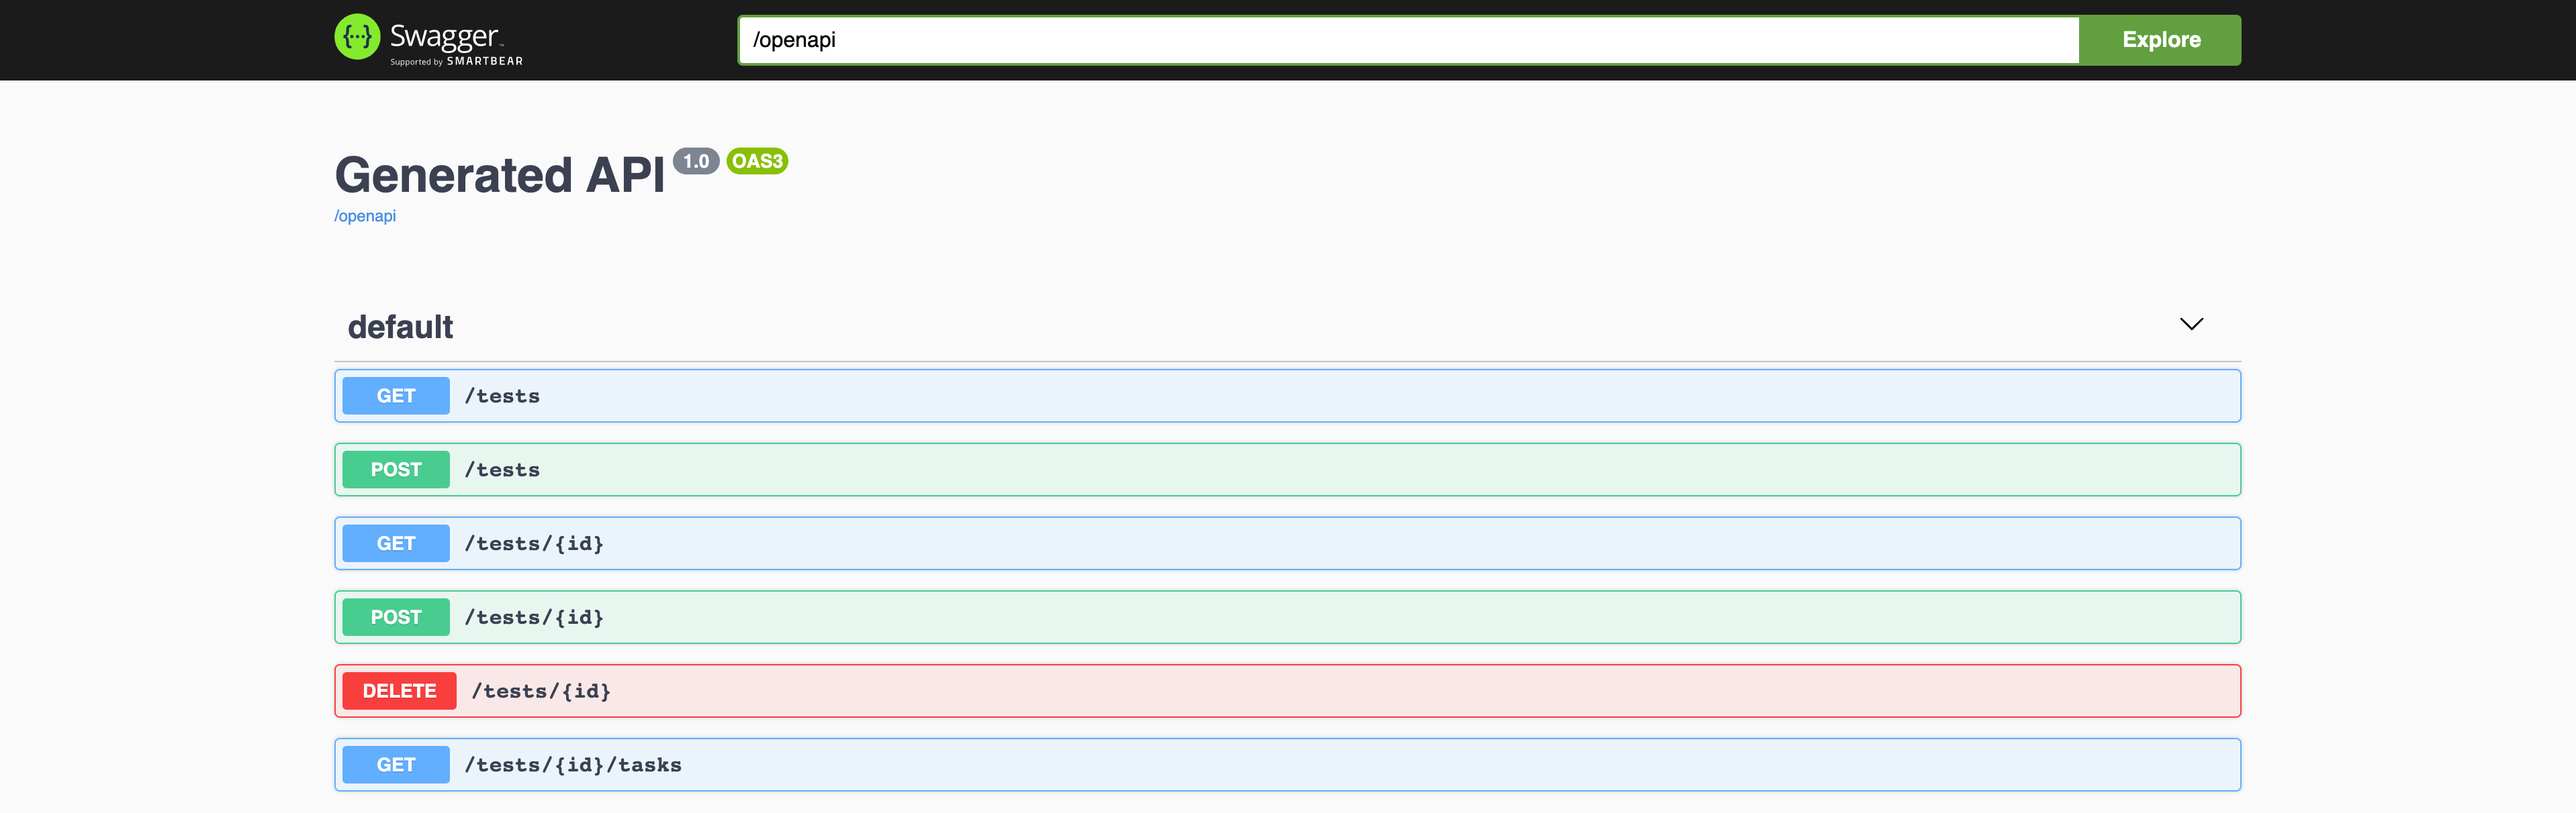
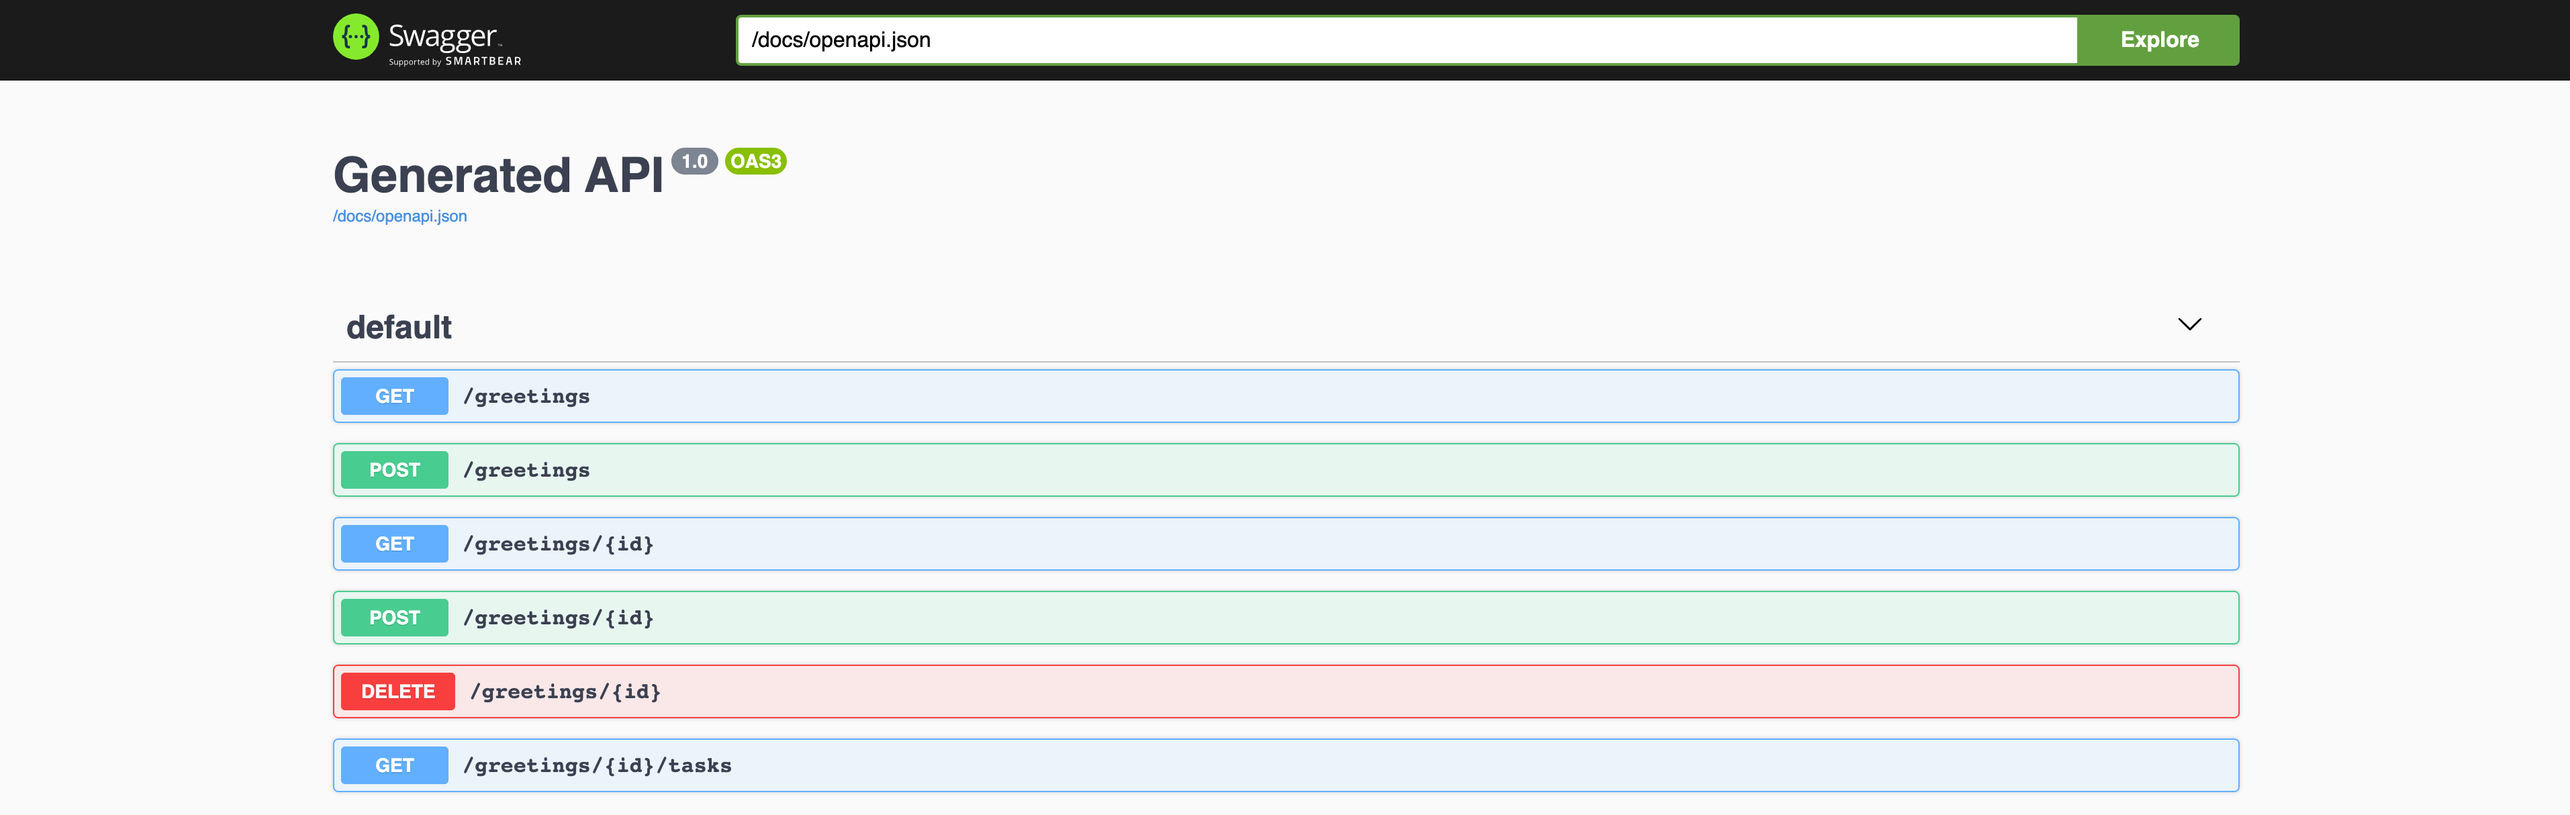
Fixes after walkthrough of the scenario.

diff --git a/middleware/middleware-kogito/getting-started/04-build-native.md b/middleware/middleware-kogito/getting-started/04-build-native.md
@@ -23,16 +23,13 @@ Within the `getting-started/pom.xml`{{open}} is the declaration for the Quarkus 
             <goals>
               <goal>native-image</goal>
             </goals>
-            <configuration>
-              <additionalBuildArgs>--allow-incomplete-classpath</additionalBuildArgs>
-            </configuration>
           </execution>
         </executions>
       </plugin>
       <plugin>
         <groupId>org.apache.maven.plugins</groupId>
         <artifactId>maven-failsafe-plugin</artifactId>
-        <version>2.22.1</version>
+        <version>${surefire.version}</version>
       </plugin>
     </plugins>
   </build>
@@ -40,7 +37,7 @@ Within the `getting-started/pom.xml`{{open}} is the declaration for the Quarkus 
 ```
 We use a profile because, you will see very soon, packaging the native image takes a few seconds. However, this compilation time is only incurred _once_, as opposed to _every_ time the application starts, which is the case with other approaches for building and executing JARs.
 
-In the original terminal, if the application is still running, stop it with `Ctrl+C`. Next, a native executable by clicking: `mvn clean package -Pnative -DskipTests=true`{{execute}}
+In the original terminal, if the application is still running, stop it with `Ctrl+C`. Next, create a native executable by clicking: `mvn clean package -Pnative -DskipTests=true`{{execute}}
 
 > Since we are working in a Linux environment, and the OS that will eventually run our application is also Linux, we can use our local OS to build the native Quarkus app. If you need to build native Linux binaries when on other OS's like Windows or macOS, you can use `-Dquarkus.native.container-runtime=[podman | docker]`. You'll need either Docker or [Podman](https://podman.io) installed depending on which container runtime you want to use!
 
@@ -52,7 +49,7 @@ In addition to the regular files, the build also produces `target/getting-starte
 
 ```console
 $ file target/getting-started-1.0-SNAPSHOT-runner
-target/getting-started-1.0-SNAPSHOT-runner: ELF 64-bit LSB executable, x86-64, version 1 (SYSV), dynamically linked (uses shared libs), for GNU/Linux 2.6.32, BuildID[sha1]=e922a54ad13711d63023ff99b370cc419a3eba96, not stripped
+target/getting-started-1.0-SNAPSHOT-runner: ELF 64-bit LSB executable, x86-64, version 1 (SYSV), dynamically linked, interpreter /lib64/ld-linux-x86-64.so.2, for GNU/Linux 3.2.0, BuildID[sha1]=d8c36b6f114e5b2fce77b4efe07d1e4ac4879ab6, with debug_info, not stripped, too many notes (256)
 ```
 
 ## Run native image
@@ -64,11 +61,15 @@ Since our environment here is Linux, you can _just run it_:
 Notice the amazingly fast startup time:
 
 ```console
-2020-03-23 12:54:58,692 INFO  [io.quarkus] (main) getting-started 1.0-SNAPSHOT (powered by Quarkus 1.3.0.Final) started in 0.007s. Listening on: http://0.0.0.0:8080
-2020-03-23 12:54:58,692 INFO  [io.quarkus] (main) Profile prod activated.
-2020-03-23 12:54:58,692 INFO  [io.quarkus] (main) Installed features: [cdi, kogito, resteasy, resteasy-jackson, smallrye-openapi]
+__  ____  __  _____   ___  __ ____  ______
+ --/ __ \/ / / / _ | / _ \/ //_/ / / / __/
+ -/ /_/ / /_/ / __ |/ , _/ ,< / /_/ /\ \
+--\___\_\____/_/ |_/_/|_/_/|_|\____/___/
+2020-04-15 13:48:19,193 INFO  [io.quarkus] (main) getting-started 1.0-SNAPSHOT (powered by Quarkus 1.3.0.Final) started in 0.021s. Listening on: http://0.0.0.0:8080
+2020-04-15 13:48:19,193 INFO  [io.quarkus] (main) Profile prod activated.
+2020-04-15 13:48:19,193 INFO  [io.quarkus] (main) Installed features: [cdi, kogito, resteasy, resteasy-jackson, smallrye-openapi, swagger-ui]
 ```
-That's 7 milliseconds (seven!!!) to start a full business application, exposing a REST API and ready to serve requests in a shared learning environment!
+That's 21 milliseconds (twenty one!!!) to start a full business application, exposing a REST API and ready to serve requests in a shared learning environment!
 
 And extremely low memory usage as reported by the Linux `ps` utility. Click here to run this in your other Terminal tab:
 

diff --git a/middleware/middleware-kogito/getting-started/02-implement-process.md b/middleware/middleware-kogito/getting-started/02-implement-process.md
@@ -161,16 +161,9 @@ Alternatively, you can copy the following BPMN2 definition to the BPMN file:
 
 Since we still have our app running using `mvn quarkus:dev`, when you make these changes and reload the endpoint, Quarkus will notice all of these changes and live-reload them, including changes in your business assets (i.e. processes, decision, rules, etc.).
 
-Check that it works as expected by opening the Swagger-UI endpoint by [clicking here](https://[[CLIENT_SUBDOMAIN]]-8080-[[KATACODA_HOST]].environments.katacoda.com/swagger-ui). The Swagger-UI will show the REST resources that have been generated from the project's _business assets_, in this case the `getting_started` resource, which is backed by our process definition.
+Check that it works as expected by opening the Swagger-UI endpoint by [clicking here](https://[[CLIENT_SUBDOMAIN]]-8080-[[KATACODA_HOST]].environments.katacoda.com/swagger-ui). The Swagger-UI will show the REST resources that have been generated from the project's _business assets_, in this case the `getting_started` resource, which is backed by our process definition (note that the sample _Greetings_ resource is also still shown in the Swagger UI).
 
-In the Swagger UI, expand the **POST /getting_started** resource. Click on the **Try it out** button on the right-hand-side of the screen. Remove the
-
-```console
-{
-  "id": "string"
-}
-```
-from the *Request body*, and click on the blue **Execute** button. The response will be the instance-id/process-id of the created **getting_started** resource.
+In the Swagger UI, expand the **POST /getting_started** resource. Click on the **Try it out** button on the right-hand-side of the screen. Click on the blue **Execute** button to fire the request. The response will be the instance-id/process-id of the created **getting_started** resource.
 
 ![Swagger](/openshift/assets/middleware/middleware-kogito/kogito-getting-started-swagger.png)
 

diff --git a/middleware/middleware-kogito/getting-started/01-create-project.md b/middleware/middleware-kogito/getting-started/01-create-project.md
@@ -83,7 +83,7 @@ Because this is the first Maven Kogito/Quarkus build on this environment, the sy
 
 After the dependencies have been downloaded, and the application has been compiled, note the amazingly fast startup time! Once started, you can request the provided Swagger UI in the browser [using this link](https://[[CLIENT_SUBDOMAIN]]-8080-[[KATACODA_HOST]].environments.katacoda.com/swagger-ui).
 
-You should see the following page:
+You should see the following page, which shows the API of the sample Kogito _Greetings_ service provided by the archetype:
 
 ![New Kogito Quarkus Web Page](/openshift/assets/middleware/middleware-kogito/new-kogito-quarkus-swagger-ui.png)
 

diff --git a/middleware/middleware-kogito/getting-started/03-package-and-run.md b/middleware/middleware-kogito/getting-started/03-package-and-run.md
@@ -43,7 +43,7 @@ The output shows the id of the new instance (note that your id will be different
 
 ## Cleanup
 
-Go back to the terminal and stop the application once again by pressing `CTRL-C`.
+Go back to the first terminal and stop the application once again by pressing `CTRL-C`.
 
 ## Congratulations!
 
